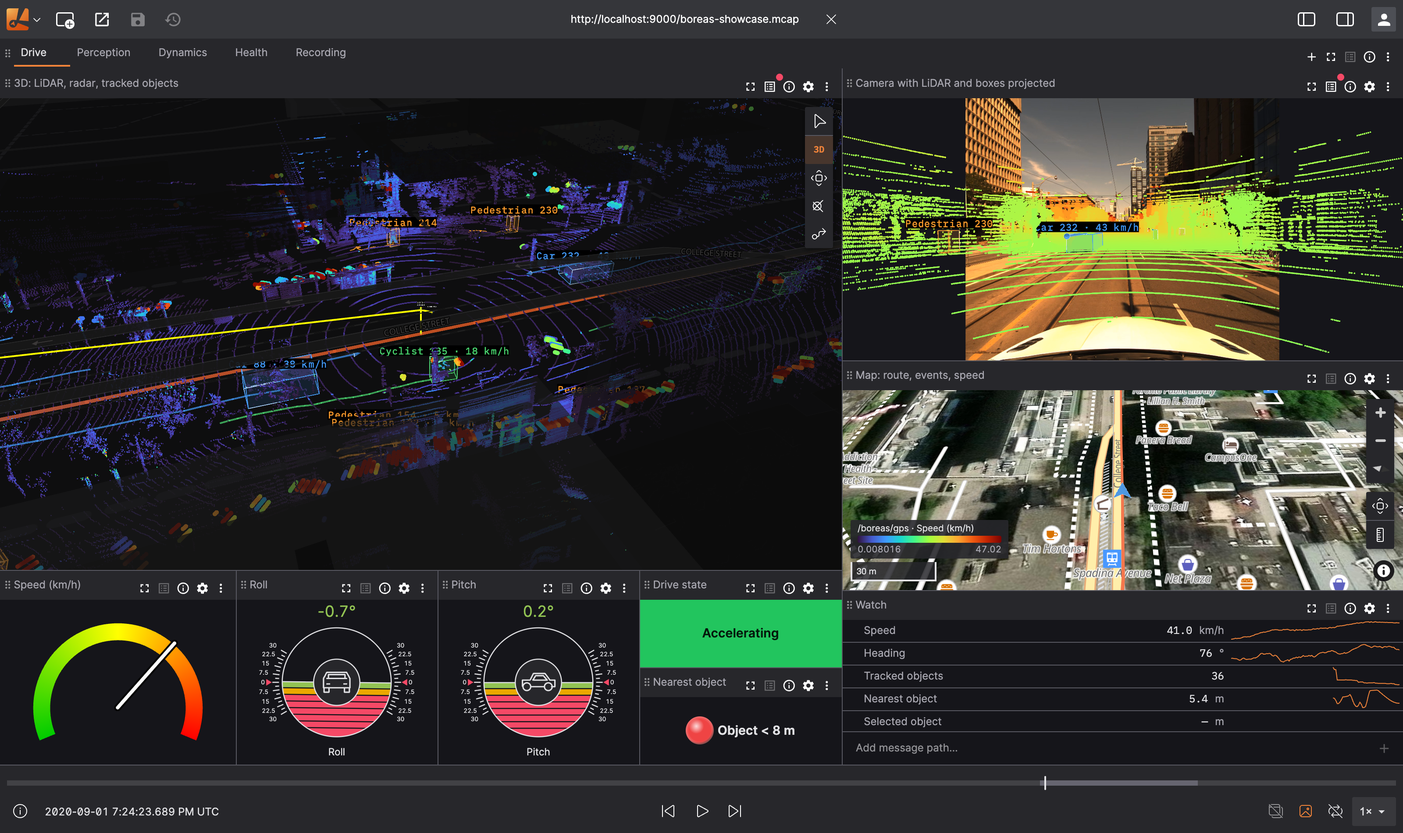
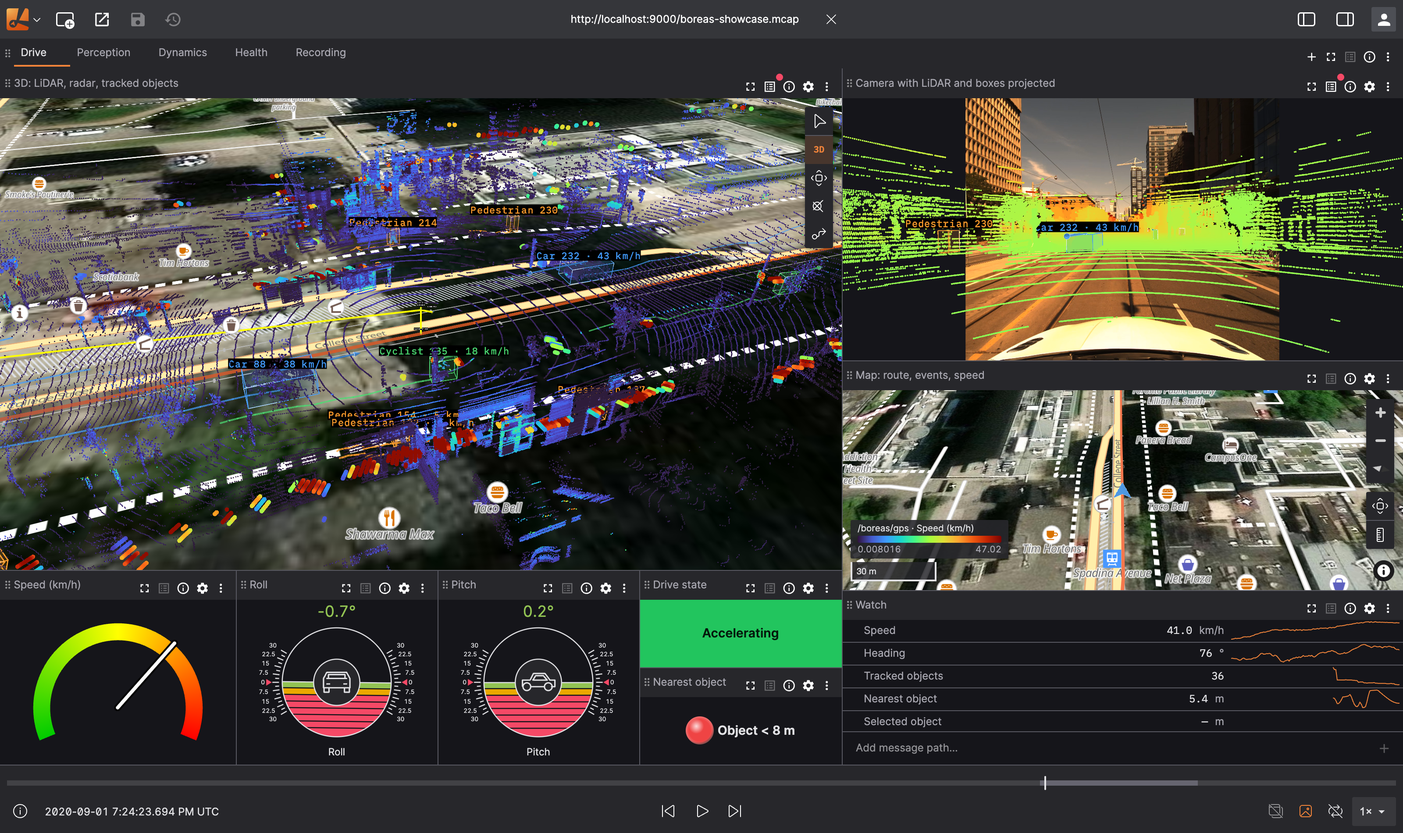
docs(readme): satellite 3D map in the showcase, add playback animation

Changed region(s): [[0.0, 0.0932, 0.625, 0.6832], [0.4688, 0.5589, 0.5, 0.59]]

diff --git a/README.md b/README.md
@@ -14,6 +14,10 @@ Visualization and diagnosis for robotics, in your browser or as a desktop app on
 
 ## :sparkles: Highlights
 
+<p align="center">
+  <img alt="Lichtblick playing the Boreas showcase recording" src="resources/demo.webp" width="100%">
+</p>
+
 - **Recordings**: MCAP (with ROS 1/2, Protobuf, CDR, JSON, CBOR, MessagePack, Cap'n Proto), ROS bags, ULog, CSV/TSV. Broken or still-growing MCAP files open while their index is rebuilt.
 - **Live data**: Foxglove WebSocket and Rosbridge, with a rolling history you can pause, seek and replay, and every live session recorded to MCAP in the browser.
 - **Compare recordings** side by side, shift them in time, and plot them on one chart.
